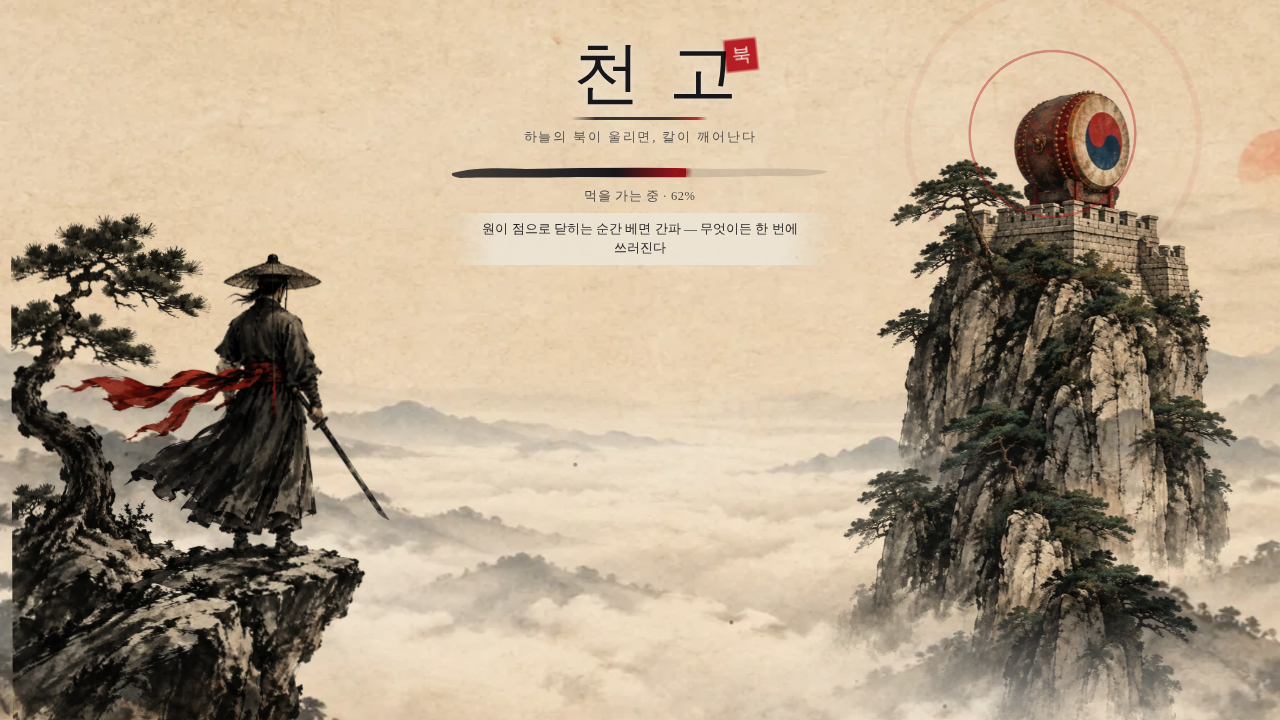
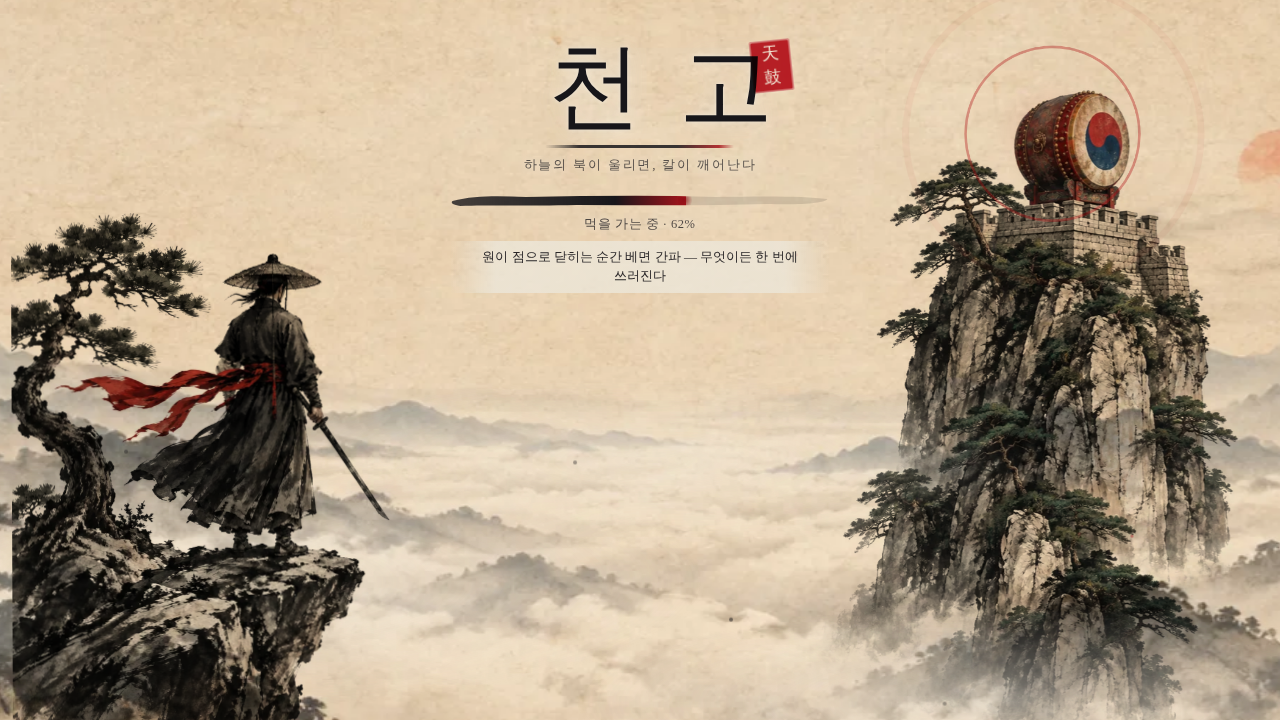
Loading title larger with a 天鼓 seal; map props graded to ink-wash and set as small scenes on wide flat ground, clear of guards, lamps and doors
Claude-Session: https://claude.ai/code/session_01Rc1cVb1vkCQfdutHoe7fgf

diff --git a/index.html b/index.html
@@ -11,8 +11,8 @@
 <meta name="apple-mobile-web-app-status-bar-style" content="black-translucent">
 <meta name="apple-mobile-web-app-title" content="천고">
 <link rel="manifest" href="manifest.webmanifest">
-<link rel="icon" href="icons/icon-192.png?v=10141700">
-<link rel="apple-touch-icon" href="icons/apple-touch-icon.png?v=10141700">
+<link rel="icon" href="icons/icon-192.png?v=10141800">
+<link rel="apple-touch-icon" href="icons/apple-touch-icon.png?v=10141800">
 <link rel="preconnect" href="https://fonts.googleapis.com">
 <link rel="preconnect" href="https://fonts.gstatic.com" crossorigin>
 <link rel="stylesheet" href="https://fonts.googleapis.com/css2?family=Song+Myung&display=swap">
@@ -20,11 +20,11 @@
 <link rel="stylesheet" href="https://fonts.googleapis.com/css2?family=Nanum+Myeongjo&display=swap&text=%E4%B8%80%E4%B8%89%E4%B8%8A%E4%B8%8B%E4%B8%8D%E4%B8%99%E4%B8%9E%E4%B8%AD%E4%B8%B8%E4%B8%B9%E4%B8%BB%E4%B9%99%E4%B9%9D%E4%BA%82%E4%BA%8C%E4%BA%94%E4%BA%95%E4%BA%AD%E4%BF%83%E4%BF%AE%E5%81%87%E5%81%9C%E5%83%A7%E5%85%89%E5%85%A5%E5%85%A9%E5%85%AD%E5%85%B5%E5%85%B7%E5%86%A4%E5%86%B6%E5%86%B7%E5%87%8C%E5%88%80%E5%88%83%E5%88%86%E5%88%87%E5%88%91%E5%88%9D%E5%88%BA%E5%89%9B%E5%8A%8D%E5%8A%9B%E5%8A%9F%E5%8B%95%E5%8B%9D%E5%8B%A2%E5%8D%83%E5%8D%B4%E5%8D%B7%E5%8E%84%E5%8F%8D%E5%8F%A3%E5%8F%AF%E5%90%8D%E5%90%B8%E5%91%B5%E5%91%BD%E5%9B%9B%E5%9B%9E%E5%9C%B0%E5%9D%90%E5%A0%82%E5%A1%94%E5%A1%9E%E5%A2%83%E5%A2%93%E5%A2%9C%E5%A3%81%E5%A3%87%E5%A3%9E%E5%A4%A7%E5%A4%A9%E5%A4%B7%E5%A5%A7%E5%A5%AA%E5%A5%B3%E5%A6%99%E5%AD%97%E5%AD%A4%E5%AE%88%E5%AE%97%E5%AF%82%E5%AF%9E%E5%B0%84%E5%B0%87%E5%B0%8E%E5%B0%BE%E5%B1%88%E5%B1%B1%E5%B6%BA%E5%B7%AB%E5%B7%AE%E5%B8%B3%E5%B8%B6%E5%B9%95%E5%B9%B3%E5%B9%BB%E5%BA%AB%E5%BC%93%E5%BC%95%E5%BD%88%E5%BD%B1%E5%BE%8B%E5%BE%90%E5%BE%91%E5%BF%83%E5%BF%85%E5%BF%B5%E6%80%92%E6%80%A5%E6%81%AF%E6%87%89%E6%88%90%E6%88%B0%E6%88%BF%E6%89%80%E6%89%87%E6%89%8B%E6%89%93%E6%8B%8D%E6%8B%94%E6%8C%81%E6%8D%AE%E6%8E%A5%E6%8E%A8%E6%8F%9B%E6%93%8A%E6%94%B6%E6%95%A3%E6%96%A4%E6%96%AC%E6%96%B7%E6%97%8B%E6%98%87%E6%98%8E%E6%98%9F%E6%9A%B4%E6%9B%89%E6%9B%B8%E6%9C%88%E6%9C%9B%E6%9C%AC%E6%9D%BF%E6%9E%97%E6%A1%B6%E6%A2%85%E6%A2%AF%E6%A5%AD%E6%A7%8C%E6%A7%8D%E6%A8%93%E6%A9%9F%E6%AD%A2%E6%AD%A3%E6%AD%A5%E6%AD%A6%E6%AD%B8%E6%AD%BB%E6%AE%98%E6%AE%BA%E6%AE%BF%E6%B0%A3%E6%B0%B4%E6%B1%BA%E6%B3%89%E6%B3%95%E6%B4%BE%E6%B5%81%E6%B7%B1%E6%B7%B5%E6%B8%A1%E6%BA%96%E6%BB%85%E6%BB%91%E6%BB%BF%E6%BD%9B%E6%BF%83%E6%BF%A4%E7%81%AB%E7%82%8E%E7%82%B8%E7%83%8F%E7%84%A1%E7%84%B0%E7%85%99%E7%85%A7%E7%86%9F%E7%86%B1%E7%87%92%E7%87%95%E7%88%86%E7%89%8C%E7%8B%82%E7%8B%90%E7%8B%99%E7%8D%A8%E7%8D%AC%E7%8E%84%E7%8E%8B%E7%92%B0%E7%94%95%E7%94%9F%E7%94%B0%E7%94%B2%E7%96%BE%E7%99%BB%E7%99%BC%E7%99%BD%E7%9B%9F%E7%9B%A1%E7%9B%B8%E7%9C%8B%E7%9C%BC%E7%9D%80%E7%9E%AC%E7%9F%AD%E7%9F%B3%E7%A0%B2%E7%A0%B4%E7%A2%91%E7%A5%9E%E7%A5%A0%E7%A7%98%E7%A9%BA%E7%AA%81%E7%AA%9F%E7%AB%B9%E7%AC%88%E7%AC%A6%E7%AC%AC%E7%AD%92%E7%AE%A1%E7%AE%AD%E7%B4%85%E7%B5%82%E7%B5%90%E7%B5%B2%E7%B5%B6%E7%B6%AD%E7%B6%B2%E7%B6%B5%E7%B7%A3%E7%B7%B4%E7%B8%9B%E7%B8%AE%E7%B9%A9%E7%BA%8C%E7%BD%A1%E7%BD%AE%E7%BE%85%E7%BE%A9%E7%BF%94%E7%BF%BC%E8%81%B2%E8%83%8E%E8%84%9A%E8%87%BA%E8%88%9E%E8%8A%B1%E8%90%AC%E8%90%BD%E8%93%84%E8%97%A5%E8%99%8E%E8%99%95%E8%99%9B%E8%99%9F%E8%9E%AD%E8%A1%80%E8%A1%8C%E8%A1%93%E8%A1%9D%E8%A1%A3%E8%A2%96%E8%A3%82%E8%A5%B2%E8%A6%81%E8%A7%92%E8%A7%A3%E8%AA%93%E8%AA%98%E8%AA%BF%E8%AD%B7%E8%B0%B7%E8%B1%B8%E8%B3%AD%E8%B5%A4%E8%B5%B0%E8%B6%8A%E8%B6%B3%E8%B7%9D%E8%B7%A1%E8%B7%AF%E8%B7%B3%E8%B8%8F%E8%BA%8D%E8%BA%AB%E8%BB%8A%E8%BB%8D%E8%BC%95%E8%BC%AA%E8%BF%8E%E8%BF%91%E8%BF%94%E8%BF%BD%E9%80%86%E9%80%90%E9%80%9F%E9%80%A3%E9%81%8E%E9%81%A0%E9%82%84%E9%87%8C%E9%87%8D%E9%87%91%E9%88%B4%E9%8A%80%E9%8A%83%E9%8D%8A%E9%8D%9B%E9%8E%96%E9%8E%AD%E9%8F%A1%E9%90%B5%E9%95%B7%E9%96%80%E9%96%83%E9%96%93%E9%96%A3%E9%97%9C%E9%98%B2%E9%99%8D%E9%99%A3%E9%99%A4%E9%9A%AA%E9%9B%99%E9%9B%A2%E9%9B%A8%E9%9B%B2%E9%9B%B6%E9%9B%B7%E9%9B%BB%E9%9C%86%E9%9C%87%E9%9C%A7%E9%9C%B9%E9%9D%82%E9%9D%88%E9%9D%91%E9%9D%9C%E9%9D%A2%E9%A2%A8%E9%A3%9B%E9%A3%9F%E9%A6%99%E9%A6%AC%E9%A8%B0%E9%AA%A8%E9%AC%BC%E9%AD%82%E9%AD%9A%E9%B3%A5%E9%B3%B6%E9%B5%B2%E9%B6%B4%E9%B7%B9%E9%BB%91%E9%BC%93%E9%BD%8A%E9%BE%8D">
 <link rel="preload" as="image" href="assets/load-wide.webp" media="(orientation: landscape)">
 <link rel="preload" as="image" href="assets/load-tall.webp" media="(orientation: portrait)">
-<link rel="stylesheet" href="style.css?v=10141700">
+<link rel="stylesheet" href="style.css?v=10141800">
 <link rel="preload" as="image" href="assets/ld-bg-wide.webp" media="(orientation: landscape)"><link rel="preload" as="image" href="assets/ld-bg-tall.webp" media="(orientation: portrait)">
 </head>
 <body>
-  <div id="loading"><div class="ld-bg"></div><div class="ld-tower"><img src="assets/ld-tower.webp" alt=""><i class="ld-ring"></i><i class="ld-ring r2"></i><i class="ld-glow"></i></div><div class="ld-mist"></div><div class="ld-hero"><img src="assets/ld-hero.webp" alt=""></div><div class="ld-mist m2"></div><div class="ld-specks"><i></i><i></i><i></i><i></i><i></i><i></i><i></i><i></i><i></i><i></i></div><div class="ld-in"><div class="ld-title"><h1 class="ld-name"><span>천</span><span>고</span></h1><i class="ld-line"></i><b class="ld-seal"><span>북</span></b></div><div class="ld-read">하늘의 북이 울리면, 칼이 깨어난다</div><div class="ld-bar"><i id="ldBar"></i></div><span id="ldTxt">먹을 가는 중</span><em id="ldTip"></em></div></div>
+  <div id="loading"><div class="ld-bg"></div><div class="ld-tower"><img src="assets/ld-tower.webp" alt=""><i class="ld-ring"></i><i class="ld-ring r2"></i><i class="ld-glow"></i></div><div class="ld-mist"></div><div class="ld-hero"><img src="assets/ld-hero.webp" alt=""></div><div class="ld-mist m2"></div><div class="ld-specks"><i></i><i></i><i></i><i></i><i></i><i></i><i></i><i></i><i></i><i></i></div><div class="ld-in"><div class="ld-title"><h1 class="ld-name"><span>천</span><span>고</span></h1><i class="ld-line"></i><b class="ld-seal"><span>天</span><span>鼓</span></b></div><div class="ld-read">하늘의 북이 울리면, 칼이 깨어난다</div><div class="ld-bar"><i id="ldBar"></i></div><span id="ldTxt">먹을 가는 중</span><em id="ldTip"></em></div></div>
 <div id="app">
   <canvas id="cv"></canvas>
 
@@ -179,11 +179,11 @@
   (ld.querySelector(".ld-in") || ld).appendChild(b); }
   window.addEventListener("error", function () { setTimeout(rescue, 1500); }); setTimeout(rescue, 25000); })();
 </script>
-<script src="js/tuning.js?v=10141700"></script>
-<script src="js/content.js?v=10141700"></script>
-<script src="js/data.js?v=10141700"></script>
-<script src="js/music.js?v=10141700"></script>
-<script src="js/game.js?v=10141700"></script>
+<script src="js/tuning.js?v=10141800"></script>
+<script src="js/content.js?v=10141800"></script>
+<script src="js/data.js?v=10141800"></script>
+<script src="js/music.js?v=10141800"></script>
+<script src="js/game.js?v=10141800"></script>
 <script>
 if ("serviceWorker" in navigator && (location.protocol === "https:" || location.hostname === "localhost")) {
   window.addEventListener("load", () => navigator.serviceWorker.register("sw.js", { updateViaCache: "none" }).then(r => r.update()).catch(() => {}));

diff --git a/js/game.js b/js/game.js
@@ -2,7 +2,7 @@
 (() => {
 "use strict";
 const T = 32;
-const ASSET_V = "140";   // bump when any picture changes: the service worker then fetches the new json and webp together
+const ASSET_V = "141";   // bump when any picture changes: the service worker then fetches the new json and webp together
 const $ = id => document.getElementById(id);
 const cv = $("cv"); let ctx = cv.getContext("2d", { alpha: false });   // let: the ground is baked by pointing ctx at an offscreen canvas for a moment   // opaque canvas: cheaper to composite on phones
 let W = 0, H = 0, DPR = 1, SCALE = 1;
@@ -931,12 +931,21 @@ function loadMap(map, pal, hints) {
       if (!edge && y <= 7 && rnd() < .18) put("props2", P2.brazier, x, y, 34);
     }
     if (lv.md != null) needSheets(["md" + lv.md]);
-    if (lv.md != null && MD_PROPS[lv.md]) { const set = MD_PROPS[lv.md], sh = "md" + lv.md;   // the 마당's own things along its ground: bamboo and wells, kites and straw, stalls and carts, pagodas, drums and railings
-      for (let x = 6, last = -99; x < w - 6; x++) { if (x - last < 6 + ((rnd() * 7) | 0)) continue; const y = surf(x, 1); if (y < 0) continue;
-        let flat = true; for (let k = -2; k <= 2; k++) if (tile(x + k, y) !== 1 || tile(x + k, y - 1) !== 0) flat = false; if (!flat) continue;
-        const [i, hh, air] = set[(rnd() * set.length) | 0];
-        if (air) { if (y > 6 && put(sh, i, x, y - 5 - ((rnd() * 3) | 0), hh, { hang: true })) last = x; continue; }
-        if (put(sh, i, x, y, hh, { flip: rnd() < .5 })) last = x; } }
+    if (lv.md != null && MD_PROPS[lv.md]) {   // the 마당's own things, set as small scenes on wide flat ground — one tall piece with a low one or two beside it, backed against rock where there is some
+      const set = MD_PROPS[lv.md], sh = "md" + lv.md, big = set.filter(o => o[2] === "b"), small = set.filter(o => o[2] !== "b");
+      const busy = [[lv.start && lv.start.x, 4], [lv.exit && lv.exit.x, 4], ...lv.cps.map(c => [c.x, 2]), ...lv.defs.map(d => [d.tx * T + 16, 2]), ...lv.chests.map(c => [c.x, 3]), ...lv.lamps.map(l => [l.x, 2])].filter(v => v[0] != null);
+      const freeAt = x => !busy.some(([b, r]) => Math.abs(b - (x * T + 16)) < r * T);
+      for (let x = 4, last = -99; x < w - 6; x++) {
+        const y = surf(x, 1); if (y < 0) continue; let n = 0; while (x + n < w && surf(x + n, 1) === y && tile(x + n, y - 1) === 0 && tile(x + n, y - 2) === 0) n++;
+        if (n < 5 || x - last < 9 || rnd() > .8) { x += Math.max(0, n - 1); continue; }
+        const wallR = tile(x + n, y - 1) === 1, wallL = tile(x - 1, y - 1) === 1, toR = wallR || (!wallL && rnd() < .5);   // lean the scene against the rock if one side rises
+        const cand = []; for (let k = 1; k < n - 1; k++) cand.push(toR ? x + n - 1 - k : x + k);
+        const pick = [big.length && rnd() < .8 ? big[(rnd() * big.length) | 0] : null, small[(rnd() * small.length) | 0], rnd() < .45 ? small[(rnd() * small.length) | 0] : null].filter(Boolean);
+        let placed = 0, ci = 0;
+        for (const [i, hh] of pick) { const H = Math.round(hh * (1.1 + rnd() * .25)), wt = Math.max(1, Math.round((SPR[sh] && SPR[sh].f[i] ? SPR[sh].f[i].w * H / SPR[sh].f[i].h : H * .8) / T * .55));
+          while (ci < cand.length && !freeAt(cand[ci])) ci++; if (ci >= cand.length) break;
+          if (put(sh, i, cand[ci], y, H, { flip: rnd() < .5 })) placed++; ci += wt + 1; }
+        if (placed) last = x + n; x += n - 1; } }
     for (let y = 2; y < h - 4; y++) for (let x = 2; x < w - 6; x++) { // paper lanterns strung under roofs
       let n = 0; while (x + n < w && tile(x + n, y) === 1 && tile(x + n, y + 1) === 0 && tile(x + n, y + 2) === 0 && tile(x + n, y + 3) === 0) n++;
       ;
@@ -2355,8 +2364,8 @@ function playerHazards() {
 
 // ---------- the 마당's own ground: 기와 that gives way, 장단 발판, wind, mist and lamps, rising ink, 결진 gates, cracked rock, chests ----------
 // per 마당 prop set: [frame, height, floats in the sky]
-const MD_PROPS = [[[0, 150], [1, 64], [3, 46], [4, 52], [5, 74], [6, 74]], [[1, 48], [2, 72], [3, 92], [4, 94], [5, 124]], [[0, 98], [1, 52], [2, 62], [3, 58], [4, 66], [5, 94]],
-  [[0, 124], [1, 72], [3, 134], [4, 112], [5, 98], [6, 98]], [[0, 58], [1, 54], [2, 84], [3, 150], [4, 72], [5, 62, 1]]];
+const MD_PROPS = [[[0, 150, "b"], [1, 64], [3, 46], [4, 52], [5, 74, "b"], [6, 74]], [[1, 48], [2, 72], [3, 92, "b"], [4, 94, "b"], [5, 124, "b"]], [[0, 98, "b"], [1, 52], [2, 62], [3, 58], [4, 66], [5, 94, "b"]],
+  [[0, 124, "b"], [1, 72], [3, 134, "b"], [4, 112, "b"], [5, 98], [6, 98]], [[0, 58], [1, 54], [2, 84, "b"], [3, 150, "b"], [4, 72]]];   // [frame, height, "b" = a tall piece a scene is built around]
 const MO = { plank: 0, giwa: 1, crack: 2, chest: 3, chestOpen: 4, pole: 5, lamp: 6, gate: 7 };
 function windDir(z) { const b = Math.floor(songPos / Music.beatLen), bar = Math.floor(b / 4) + z.ph; if (((b % 4) + 4) % 4 === 3) return 0; return bar % 2 ? 1 : -1; }   // the last beat of each bar is a lull, then it turns
 function crumbleRun(r, tx) { let a = tx, b = tx; while (LV.grid[r * LV.w + a - 1] === 6) a--; while (LV.grid[r * LV.w + b + 1] === 6) b++;

diff --git a/style.css b/style.css
@@ -307,7 +307,7 @@ body.padEdit #stickZone, body.padEdit #swipeZone { pointer-events: none; }
 @media (orientation: portrait) { #loading .ld-in { top: 36%; } }
 #loading .ld-title { position: relative; display: grid; justify-items: center; padding: 0 1.2em; }
 /* 천고: the game's own face (Song Myung), set wide and quiet — each syllable rises out of the mist, a thin stroke is drawn beneath, the seal is pressed last */
-#loading .ld-name { margin: 0; display: flex; gap: .42em; padding-left: .42em; font-family: var(--f-head); font-weight: 400; font-size: clamp(46px, 9.5vmin, 80px); line-height: 1.1; color: #17161a;
+#loading .ld-name { margin: 0; display: flex; gap: .42em; padding-left: .42em; font-family: var(--f-head); font-weight: 400; font-size: clamp(62px, 13vmin, 112px); line-height: 1.1; color: #17161a;
   text-shadow: 0 0 22px rgba(236,230,216,.95), 0 0 4px rgba(236,230,216,.9); }
 #loading .ld-name span { display: inline-block; animation: ldRise 1.1s cubic-bezier(.2,.7,.2,1) both; }
 #loading .ld-name span:nth-child(1) { animation-delay: .3s; } #loading .ld-name span:nth-child(2) { animation-delay: .62s; }
@@ -315,8 +315,8 @@ body.padEdit #stickZone, body.padEdit #swipeZone { pointer-events: none; }
 #loading .ld-line { display: block; width: 72%; height: 3px; margin-top: 6px; border-radius: 2px; background: linear-gradient(90deg, rgba(23,22,26,0), #17161a 18%, #17161a 70%, #a8141b 92%, rgba(168,20,27,0));
   transform-origin: left center; animation: ldLine .9s 1.15s cubic-bezier(.6,0,.2,1) both; }
 @keyframes ldLine { from { transform: scaleX(0); opacity: .3; } to { transform: scaleX(1); opacity: .85; } }
-#loading .ld-seal { position: absolute; right: -.2em; top: .1em; display: grid; place-items: center; width: clamp(22px, 4.2vmin, 34px); aspect-ratio: 1; padding: 2px; background: #b3141c; color: #f4ecdb; border-radius: 3px;
-  font-family: var(--f-head); font-weight: 400; font-size: clamp(13px, 2.6vmin, 21px); line-height: 1; box-shadow: inset 0 0 0 1.5px rgba(244,236,219,.55); transform: rotate(-6deg);
+#loading .ld-seal { position: absolute; right: -.1em; top: .25em; display: grid; place-items: center; width: clamp(26px, 5.2vmin, 44px); aspect-ratio: .78; padding: 2px; background: #b3141c; color: #f4ecdb; border-radius: 3px;
+  font-family: var(--f-head); font-weight: 400; font-size: clamp(12px, 2.4vmin, 20px); line-height: 1.05; box-shadow: inset 0 0 0 1.5px rgba(244,236,219,.55); transform: rotate(-6deg);
   animation: ldStamp .38s 1.9s cubic-bezier(.3,1.6,.5,1) both; mix-blend-mode: multiply; }
 #loading .ld-seal span { display: block; }
 @keyframes ldStamp { from { opacity: 0; transform: rotate(-6deg) scale(2.2); } to { opacity: .95; transform: rotate(-6deg) scale(1); } }

diff --git a/_review/r50_props.js b/_review/r50_props.js
@@ -1,0 +1,7 @@
+const { open, RUN } = require('./lib');
+const tag = process.argv[2] || 'a';
+(async () => { for (const [m, seed] of [[0, 7], [1, 11], [2, 5], [4, 9], [5, 3]]) {
+  const { b, p, errs } = await open({ vp: { width: 1000, height: 462 }, run: RUN('hwando', { m, seed }) });
+  const d = await p.evaluate(() => { const L = __dbg.LV, ds = L.dress.filter(d => /^md/.test(d.sheet)); for (const e of __dbg.E) e.alive = false; const x = ds[1] || ds[0]; return x ? [Math.floor(x.x / 32), Math.floor(x.y / 32) - 1, ds.length] : null; });
+  if (d) { await p.evaluate(([x, y]) => __dbg.tp(x - 3, y), d); await p.waitForTimeout(1300); await p.screenshot({ path: `_review/shots/props_${tag}_${m}.png` }); }
+  console.log(m, d, errs.length); await b.close(); } })();

diff --git a/sw.js b/sw.js
@@ -1,6 +1,6 @@
 // 천고 service worker: network-first for the game files (so updates land on the next launch),
 // cache fallback for offline play, cache-first for Google Fonts.
-const CACHE = "chungo-v150";
+const CACHE = "chungo-v151";
 const ASSETS = "chungo-assets";   // pictures and sound: kept across versions, served at once, refreshed in the background
 const CORE = ["./", "index.html", "manifest.webmanifest",
   "icons/icon-192.png", "icons/icon-512.png", "icons/apple-touch-icon.png"];

diff --git a/_review/map_cut.py b/_review/map_cut.py
@@ -19,11 +19,14 @@ def cut(name, maxh=240):
     sizes = ndimage.sum(bgish & fg, l3, range(1, n3 + 1)); fg &= ~np.isin(l3, [i + 1 for i, s in enumerate(sizes) if s > 700])
   shape = np.clip((ndimage.gaussian_filter(fg.astype(np.float32), .7) - .15) / .7, 0, 1)
   # colour-to-alpha against the white paper: light paint lets the game's paper through, ink stays solid — no white rims or white pockets left
-  d = (255 - a.min(2)) / 255; cta = np.clip(d / .38, 0, 1)
+  d = (255 - a.min(2)) / 255; cta = np.clip(d / .12, 0, 1)   # only paper-white goes clear: painted greys stay solid, like the game's own pines and rocks
   alpha = shape * cta
   safe = np.maximum(cta, 1e-3)[..., None]
   col = np.clip((a - 255 * (1 - safe)) / safe, 0, 255)
-  lum = col.mean(2, keepdims=True); col = col * .86 + lum * .14; col = col * .97
+  # ink-wash grade: most of the colour drained to warm grey ink, a little kept, contrast eased so they sit in the painted world
+  lum = col.mean(2, keepdims=True); ink = lum * np.array([1.0, .97, .9]) * .92 + 8
+  col = col * .32 + ink * .68
+  col = 128 + (col - 128) * .9
   big = ndimage.binary_dilation(alpha > .05, iterations=5); lab, n = ndimage.label(big)
   objs = ndimage.find_objects(lab); areas = ndimage.sum(alpha > .05, lab, range(1, n + 1))
   keep = sorted([i for i in range(n) if areas[i] > 1500], key=lambda i: objs[i][1].start)
